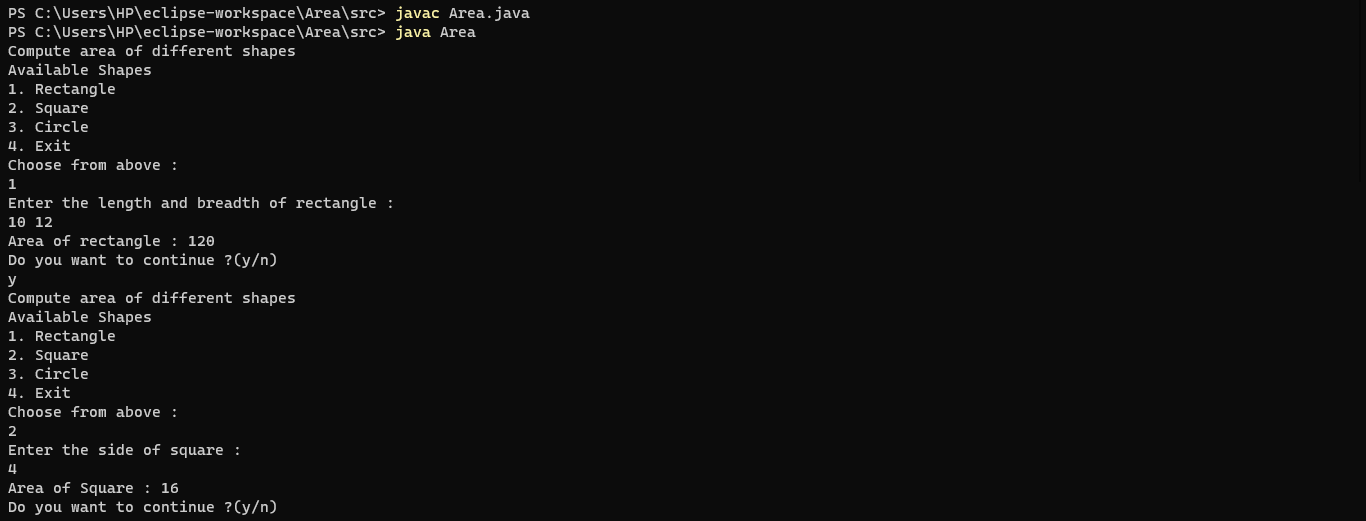
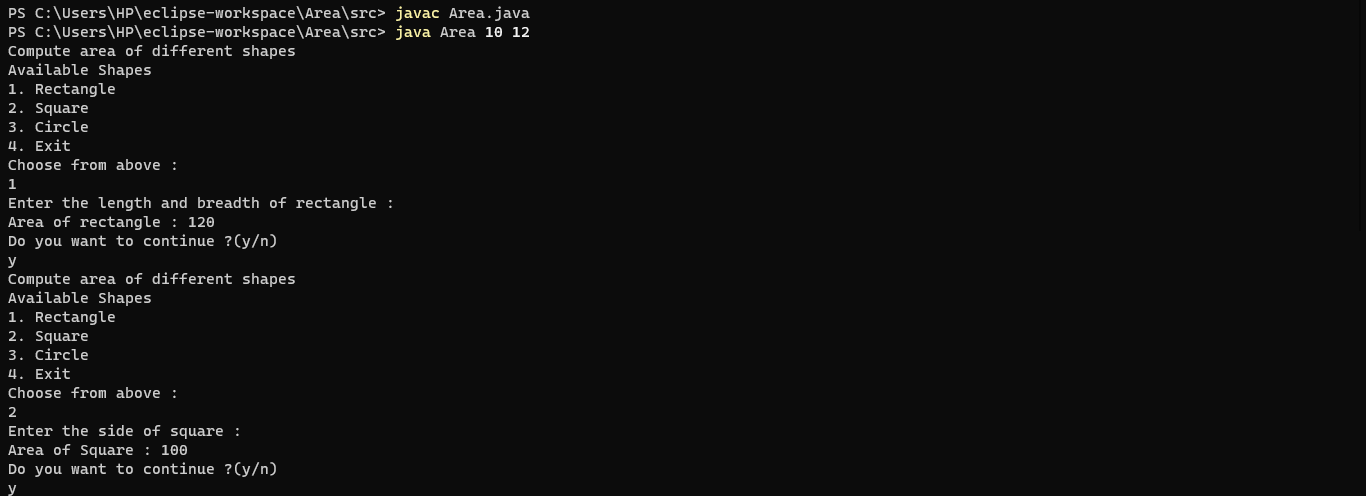
area

Changed region(s): [[0.0, 0.0, 0.3997, 0.756], [0.0, 0.7863, 0.2152, 0.998]]

diff --git a/Area.java b/Area.java
@@ -25,18 +25,18 @@ public class Area {
 				
 			if (num==1) {
 				System.out.println("Enter the length and breadth of rectangle : ");
-				int length = obj.nextInt();
-				int breadth = obj.nextInt();
+				int length = Integer.parseInt(args[0]);
+				int breadth = Integer.parseInt(args[1]);
 				System.out.println("Area of rectangle : "+a.area(length,breadth));
 			}
 			else if (num==2) {
 				System.out.println("Enter the side of square : ");
-				int side = obj.nextInt();
+				int side = Integer.parseInt(args[0]);
 				System.out.println("Area of Square : "+a.area(side));
 		}
 			else if (num==3) {
 				System.out.println("Enter radius of circle : ");
-				float radius = obj.nextFloat();
+				float radius = Float.parseFloat(args[0]);
 				System.out.println("Area of Circle : "+a.area(radius));
 		}
 			else {
